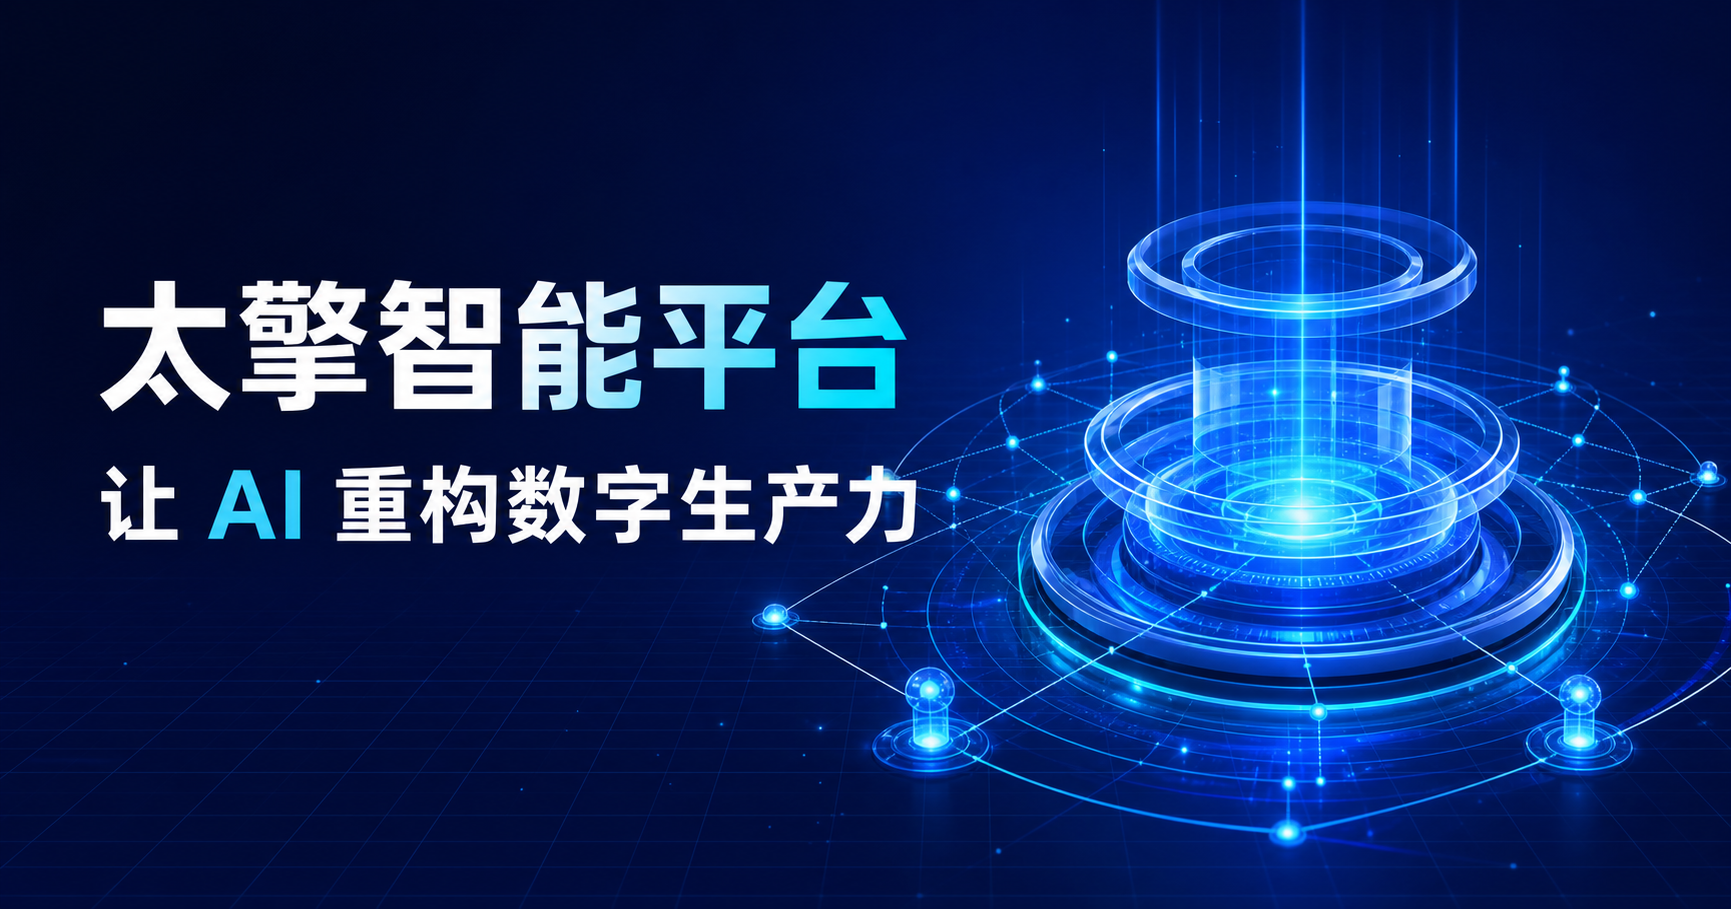
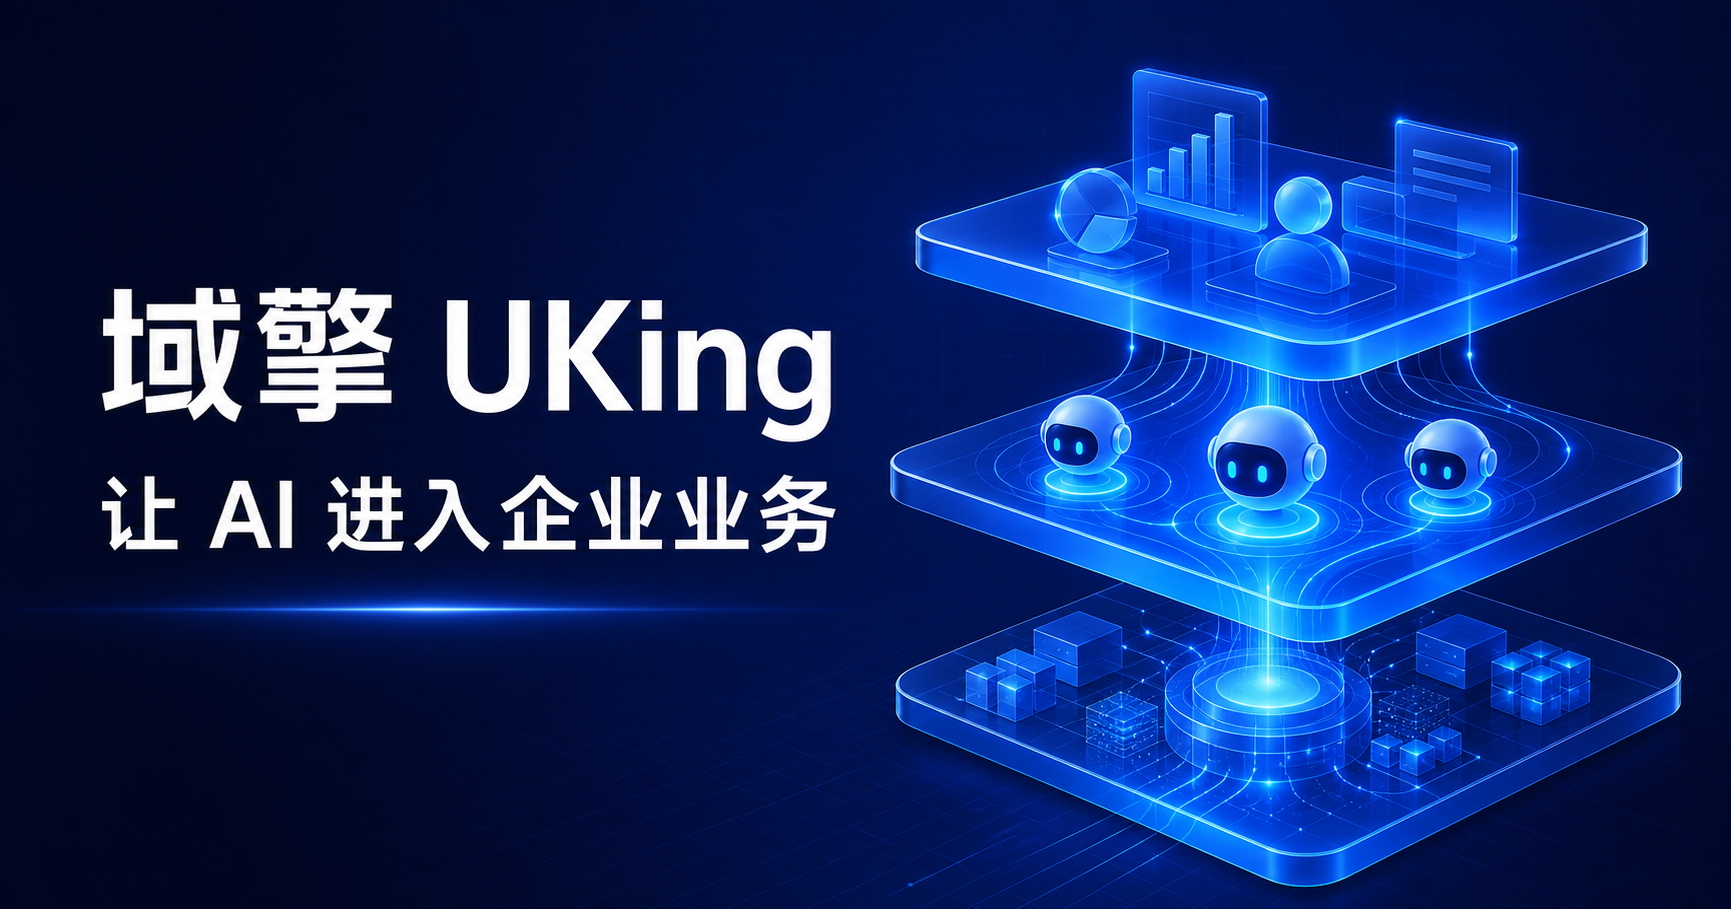
Correct UKing brand architecture

diff --git a/app/page.tsx b/app/page.tsx
@@ -1,51 +1,51 @@
 const platformLayers = [
   {
     index: "01",
-    title: "数据智能底座",
+    title: "旷湖大数据开发平台",
     description:
-      "打通企业内外部数据，完成采集、治理、融合与洞察，为智能决策提供可信数据基础。",
-    tags: ["数据治理", "标签画像", "指标体系"],
+      "作为域擎解决方案的数据底座，打通企业内外部数据，完成采集、治理、开发与服务化，为 AI 提供可信的数据上下文。",
+    tags: ["数据开发", "数据治理", "数据服务"],
   },
   {
     index: "02",
-    title: "大模型智能中台",
+    title: "太擎企业级智能体开发平台",
     description:
-      "融合主流大模型与企业知识，通过 Agent 编排、RAG 与工具调用，构建可执行的业务智能。",
-    tags: ["AI Agent", "企业知识库", "模型路由"],
+      "作为域擎解决方案的技术底座，融合主流大模型、企业知识与业务工具，快速开发可执行、可运营的企业级智能体。",
+    tags: ["Agent 开发", "企业知识库", "工具编排"],
   },
   {
     index: "03",
-    title: "行业应用平台",
+    title: "域擎企业 AI 解决方案",
     description:
-      "面向营销、招商、销售与服务场景，快速组合业务流程，让智能能力真正进入一线。",
-    tags: ["低代码", "自动化流程", "多端协同"],
+      "面向真实业务目标组合数据、智能体与行业方法论，让 AI 进入企业流程，并以域擎滴灌营销系统等产品交付业务结果。",
+    tags: ["业务咨询", "场景落地", "持续运营"],
   },
 ];
 
 const solutions = [
   {
     number: "01",
-    title: "瀑布营销",
-    subtitle: "从公域获客到私域转化",
+    title: "域擎滴灌营销系统",
+    subtitle: "持续触达 · 精准培育 · 智能转化",
     description:
-      "以 AI 获客系统、私域精细化运营与公域精准获客为核心，形成可度量、可复用的营销增长闭环。",
-    highlights: ["6 万家企业验证", "智能触达与跟进", "全链路数据归因"],
+      "围绕客户全生命周期，以数据识别需求、以 AI 持续培育、以任务驱动跟进，让每一次触达像滴灌一样精准、连续且可衡量。",
+    highlights: ["客户分层培育", "AI 持续跟进", "全链路效果归因"],
   },
   {
     number: "02",
-    title: "AI Native 产品矩阵",
-    subtitle: "让每个岗位拥有专属智能体",
+    title: "企业智能体解决方案",
+    subtitle: "基于太擎的智能体开发能力",
     description:
-      "覆盖 B2B 数字销售、SalesGPT、B2C 电商与全域销售分析，把经验沉淀为可持续执行的智能能力。",
-    highlights: ["销售 Agent", "诊断与方案生成", "多角色协同"],
+      "把企业知识、业务规则与系统工具封装为智能体，让 AI 能理解上下文、执行任务并持续协同，成为真正进入岗位的数字生产力。",
+    highlights: ["专属 Agent", "知识与工具融合", "复杂流程编排"],
   },
   {
     number: "03",
-    title: "OPC 联盟",
-    subtitle: "AI 创业者孵化平台",
+    title: "数据智能解决方案",
+    subtitle: "基于旷湖的大数据开发能力",
     description:
-      "连接工具、课程、实训与生态资源，帮助个人与团队从能力诊断走向产品验证和商业落地。",
-    highlights: ["AI 营销创业赋能", "标准化成长路径", "产教融合生态"],
+      "从数据接入、治理和开发到指标、标签与服务，帮助企业形成可复用的数据资产，为智能体和业务应用提供稳定底座。",
+    highlights: ["多源数据融合", "指标标签体系", "数据资产服务化"],
   },
 ];
 
@@ -57,23 +57,23 @@ const capabilities = [
 ];
 
 const metrics = [
-  ["50,000+", "企业数字生产力提升"],
-  ["30+", "全国服务网点"],
-  ["20+", "高校与职业院校合作"],
-  ["6 万家", "企业增长场景验证"],
+  ["UKing", "域擎 · 企业 AI 解决方案"],
+  ["Agent OS", "太擎 · 企业级智能体开发平台"],
+  ["Data OS", "旷湖 · 大数据开发平台"],
+  ["Drip Growth", "滴灌营销 · 核心业务系统"],
 ];
 
 export default function Home() {
   return (
     <main>
       <header className="site-header">
-        <a className="brand" href="#top" aria-label="太擎首页">
+        <a className="brand" href="#top" aria-label="域擎首页">
           <span className="brand-mark" aria-hidden="true">
             <i />
             <i />
           </span>
-          <span>太擎</span>
-          <small>TUNGEE</small>
+          <span>域擎</span>
+          <small>UKING</small>
         </a>
         <nav className="desktop-nav" aria-label="主导航">
           <a href="#platform">平台能力</a>
@@ -94,16 +94,16 @@ export default function Home() {
         <div className="hero-copy">
           <div className="eyebrow">
             <span />
-            企业级 AI · 数据智能 · 产业生态
+            UKING · 企业 AI 解决方案
           </div>
           <h1>
-            让 AI 进入业务，
+            让 AI 进入企业业务，
             <br />
             <em>重构数字生产力</em>
           </h1>
           <p>
-            太擎以数据智能底座和大模型智能体平台，连接企业数据、知识与流程，
-            为营销增长、产业招商和组织协同提供可落地的智能解决方案。
+            域擎以业务价值为起点，将旷湖的数据开发能力、太擎的企业级智能体开发能力与行业方法论融合，
+            为企业提供真正可落地、可运营的 AI 解决方案。
           </p>
           <div className="hero-actions">
             <a className="primary-button" href="#solutions">
@@ -115,7 +115,7 @@ export default function Home() {
           </div>
         </div>
 
-        <div className="hero-visual" aria-label="太擎智能平台能力图">
+        <div className="hero-visual" aria-label="域擎企业 AI 解决方案架构图">
           <div className="core-glow" />
           <div className="core-ring ring-a" />
           <div className="core-ring ring-b" />
@@ -125,15 +125,15 @@ export default function Home() {
           </div>
           <div className="satellite sat-a">
             <span>01</span>
-            数据
+            旷湖
           </div>
           <div className="satellite sat-b">
             <span>02</span>
-            模型
+            太擎
           </div>
           <div className="satellite sat-c">
             <span>03</span>
-            场景
+            域擎
           </div>
           <div className="signal signal-a" />
           <div className="signal signal-b" />
@@ -143,11 +143,11 @@ export default function Home() {
         <div className="hero-foot">
           <span>SCROLL TO EXPLORE</span>
           <i />
-          <p>专注于数字生产力的大模型智能体平台</p>
+          <p>专注于让 AI 进入企业业务的解决方案公司</p>
         </div>
       </section>
 
-      <section className="metrics-strip" aria-label="平台关键数据">
+      <section className="metrics-strip" aria-label="域擎品牌与技术架构">
         {metrics.map(([value, label]) => (
           <div className="metric" key={label}>
             <strong>{value}</strong>
@@ -161,13 +161,13 @@ export default function Home() {
           <div>
             <span className="section-kicker">01 / PLATFORM</span>
             <h2>
-              一个底座，
+              两大技术底座，
               <br />
-              驱动每一种智能业务
+              一套企业 AI 解决方案
             </h2>
           </div>
           <p>
-            从数据到模型，再到业务执行，太擎将分散的技术能力组合成可持续演进的企业智能操作系统。
+            旷湖负责数据开发，太擎负责智能体开发，域擎面向企业业务完成咨询、产品与交付，三者各司其职又紧密协同。
           </p>
         </div>
 
@@ -195,9 +195,9 @@ export default function Home() {
       <section className="section capability-section" id="advantages">
         <div className="capability-intro">
           <span className="section-kicker light">02 / AI AGENT</span>
-          <h2>智能体，不止回答问题</h2>
+          <h2>太擎，让智能体不止回答问题</h2>
           <p>
-            它能够理解业务上下文、调用企业工具并持续执行任务，让 AI 从“助手”成为真正的数字员工。
+            作为域擎解决方案的企业级智能体开发平台，太擎让 AI 能够理解业务上下文、调用企业工具并持续执行任务。
           </p>
         </div>
         <div className="capability-grid">
@@ -219,7 +219,7 @@ export default function Home() {
         <div className="section-heading compact">
           <div>
             <span className="section-kicker">03 / SOLUTIONS</span>
-            <h2>从增长场景出发，交付真实结果</h2>
+            <h2>从企业业务出发，交付真实结果</h2>
           </div>
           <p>
             不是展示 AI，而是把 AI 嵌入关键路径，形成可衡量的增长、效率与组织能力。
@@ -262,7 +262,7 @@ export default function Home() {
               效率倍增是结果
             </h2>
             <p>
-              从诊断、方案、部署到运营，太擎以平台能力、行业方法论和持续服务，帮助企业完成从试点到规模化应用。
+              从诊断、方案、部署到运营，域擎组合太擎与旷湖两大技术底座、行业方法论和持续服务，帮助企业完成从试点到规模化应用。
             </p>
           </div>
           <div className="delivery-path" aria-label="交付路径">
@@ -281,28 +281,28 @@ export default function Home() {
       <section className="section ecosystem-section" id="ecosystem">
         <div className="section-heading compact">
           <div>
-            <span className="section-kicker">05 / ECOSYSTEM</span>
-            <h2>连接产业、教育与创新者</h2>
+            <span className="section-kicker">05 / ARCHITECTURE</span>
+            <h2>清晰分工，协同支撑企业 AI 落地</h2>
           </div>
           <p>
-            以开放平台和联合共创机制，推动 AI 技术从企业实践走向更广泛的产业与人才生态。
+            从数据基础、智能体能力到业务交付，域擎构建面向企业结果的完整能力链。
           </p>
         </div>
         <div className="ecosystem-grid">
           <article>
-            <span>INDUSTRY</span>
-            <h3>产业共创</h3>
-            <p>与企业伙伴共同建设场景，沉淀可复制的行业解决方案。</p>
+            <span>SOLUTION</span>
+            <h3>域擎 UKing</h3>
+            <p>公司与主品牌，负责企业 AI 解决方案、行业产品与持续交付。</p>
           </article>
           <article>
-            <span>EDUCATION</span>
-            <h3>产教融合</h3>
-            <p>联合高校与职业院校，共建数字课程、实训体系与人才标准。</p>
+            <span>AGENT PLATFORM</span>
+            <h3>太擎</h3>
+            <p>企业级智能体开发平台，为域擎解决方案提供智能体技术底座。</p>
           </article>
           <article>
-            <span>INNOVATOR</span>
-            <h3>OPC 孵化</h3>
-            <p>为 AI 创业者提供工具、课程、实战项目与商业化支持。</p>
+            <span>DATA PLATFORM</span>
+            <h3>旷湖</h3>
+            <p>大数据开发平台，为域擎解决方案提供可信、可复用的数据底座。</p>
           </article>
         </div>
       </section>
@@ -311,7 +311,7 @@ export default function Home() {
         <div className="cta-grid" aria-hidden="true" />
         <span>BUILD THE NEXT INTELLIGENT BUSINESS</span>
         <h2>
-          与太擎一起，
+          与域擎一起，
           <br />
           开启智能生产力新阶段
         </h2>
@@ -328,16 +328,16 @@ export default function Home() {
             <i />
             <i />
           </span>
-          <span>太擎</span>
-          <small>TUNGEE</small>
+          <span>域擎</span>
+          <small>UKING</small>
         </a>
-        <p>专注于数字生产力解决方案的大模型智能体平台</p>
+        <p>让 AI 进入企业业务的解决方案公司</p>
         <div>
           <a href="#platform">平台能力</a>
           <a href="#solutions">解决方案</a>
           <a href="#ecosystem">合作生态</a>
         </div>
-        <small>© 2026 Tungee Intelligence. All rights reserved.</small>
+        <small>© 2026 UKing Intelligence. All rights reserved.</small>
       </footer>
     </main>
   );

diff --git a/app/layout.tsx b/app/layout.tsx
@@ -3,17 +3,17 @@ import "./globals.css";
 
 export const metadata: Metadata = {
   metadataBase: new URL("https://www.uking.uk"),
-  title: "太擎智能平台｜让 AI 重构数字生产力",
+  title: "域擎 UKing｜让 AI 进入企业业务",
   description:
-    "太擎以数据智能底座和大模型智能体平台，为营销增长、产业招商和组织协同提供可落地的智能解决方案。",
+    "域擎提供让 AI 进入企业业务的解决方案，以太擎企业级智能体开发平台和旷湖大数据开发平台为技术底座。",
   icons: {
     icon: "/favicon.svg",
     shortcut: "/favicon.svg",
   },
   openGraph: {
-    title: "太擎智能平台｜让 AI 重构数字生产力",
+    title: "域擎 UKing｜让 AI 进入企业业务",
     description:
-      "连接数据、知识与业务流程，让 AI 从助手成为真正的数字员工。",
+      "以太擎和旷湖为技术底座，为企业提供可落地、可运营的 AI 解决方案。",
     type: "website",
     locale: "zh_CN",
     images: [
@@ -21,14 +21,14 @@ export const metadata: Metadata = {
         url: "/og.png",
         width: 1200,
         height: 630,
-        alt: "太擎智能平台 - 让 AI 重构数字生产力",
+        alt: "域擎 UKing - 让 AI 进入企业业务",
       },
     ],
   },
   twitter: {
     card: "summary_large_image",
-    title: "太擎智能平台｜让 AI 重构数字生产力",
-    description: "连接数据、知识与业务流程，让 AI 从助手成为真正的数字员工。",
+    title: "域擎 UKing｜让 AI 进入企业业务",
+    description: "以太擎和旷湖为技术底座，为企业提供可落地、可运营的 AI 解决方案。",
     images: ["/og.png"],
   },
 };
